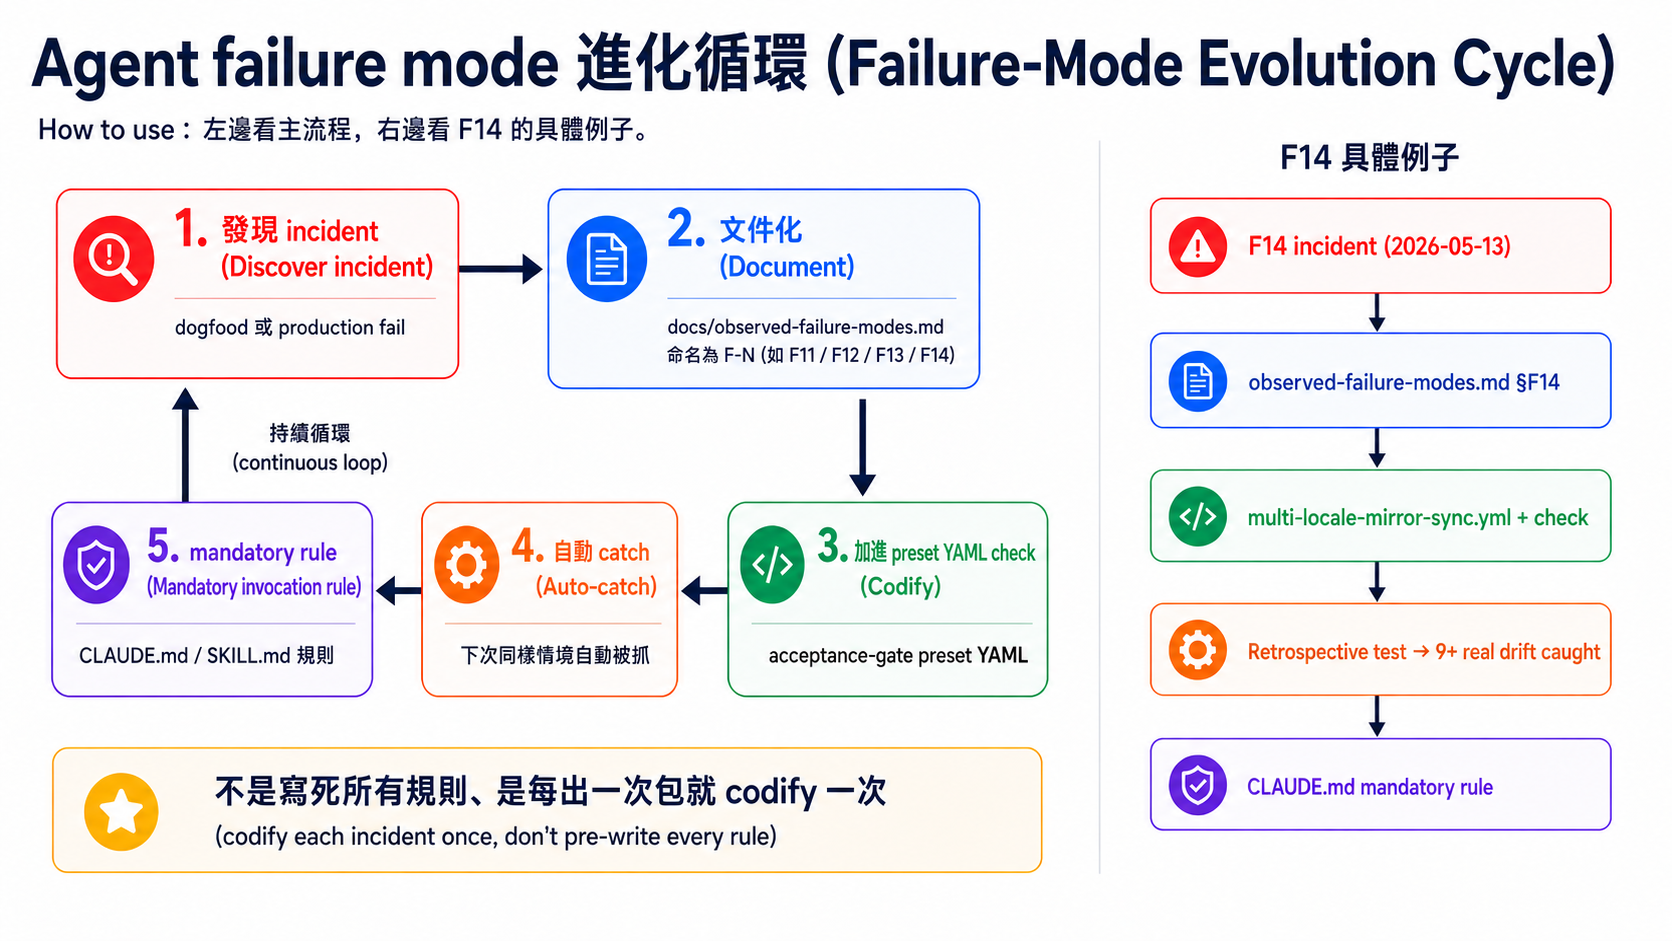
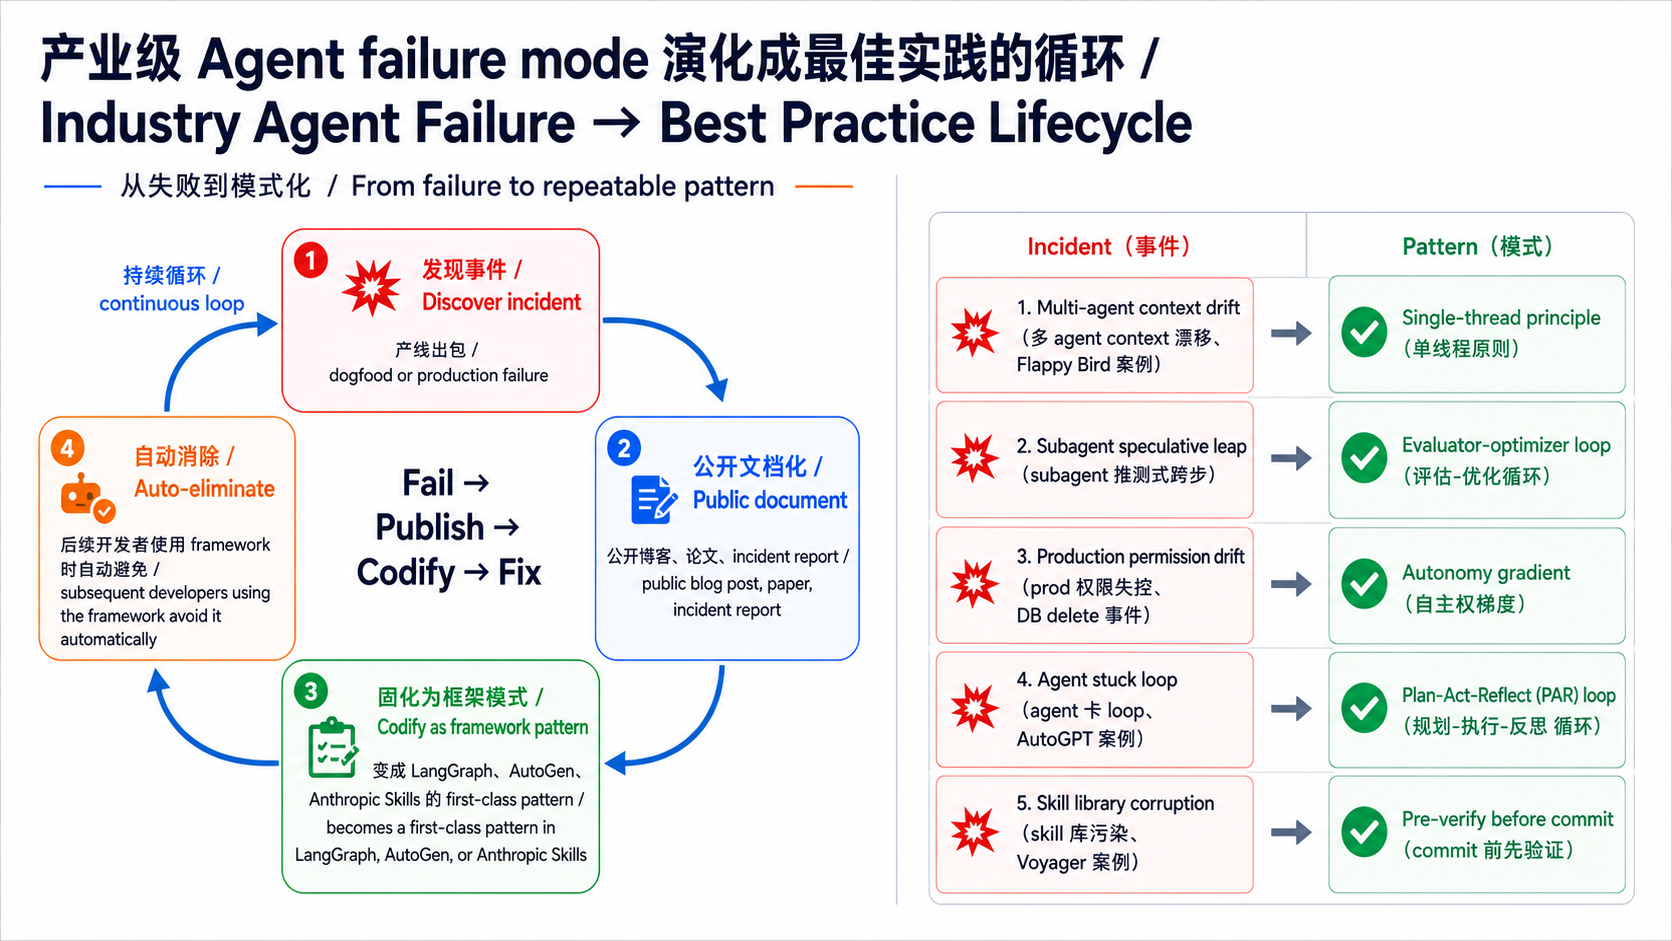
docs(stage-7.5): swap 2 ASCII blocks → PNG embeds + codex polish + §4 rewrite in plain-language style
Three combined changes per user feedback:

(1) Replace remaining 2 ASCII blocks with new PNG diagrams (× 3 locales):
    - §🧭 4-layer work boundary stack ASCII → stack-4layer.{,zh-Hans,en}.png
    - §🔬 5-principle cross-source dependency ASCII → principle-dependency.{,zh-Hans,en}.png
    Also refreshed failure-lifecycle.{,zh-Hans,en}.png with the new industry-incident
    content (5 publicly-documented cases). All 9 PNGs use bilingual labels
    (中英對照) for zh-TW/zh-Hans, monolingual English for en.

(2) Apply codex-delegated grammar/clarity polish (22 of 29 fixes):
    - Removed insider code-switching: "engineer 掉" → "通過工程設計消除",
      "fit 既有契約" → "符合既有契約", "pointing 到" → "指向",
      "broad-scan" → "泛讀"
    - Fixed missing objects: "驗證收到" → "驗證自己真的收到了這些 artifacts"
    - Concretized abstract terms: "primary source" → "一手來源（primary source）",
      "destination/navigation" → "目的地/導航"
    - en grammar: title de-duplication, "production agents means" → "are",
      "Chapter Composition" → "Chapter Structure", "kept publishing" →
      "have continued publishing", "block the human" → "prevent humans from
      bypassing", "pre-write every rule" → "write every rule up front",
      "reads-overflow" → "overflows its context while reading"
    - zh-TW line 3: filled in locale-nav mirror links (was placeholder
      "(zh-Hans / en mirror defer 中)")

(3) Rewrite §4 Architecture & Taste Invariants in user's preferred
    concrete-enforcement-plus-metaphor style:
[…]

diff --git a/stages/07.5-advanced-agentic-concepts.md b/stages/07.5-advanced-agentic-concepts.md
@@ -1,6 +1,6 @@
 # Stage 7.5 — 進階 Agentic Workflow 概念地圖（Advanced Agentic Concepts Map，骨幹 + reading path）
 
-> **繁體中文** | (zh-Hans / en mirror defer 中)
+> **繁體中文** | [简体中文](./07.5-advanced-agentic-concepts.zh-Hans.md) | [English](./07.5-advanced-agentic-concepts.en.md)
 
 ⏱ **時間估算**：1 週（約 5 小時——不寫 code、只讀資源建立概念地圖）
 
@@ -17,57 +17,28 @@ Stage 4 教你挑 **framework**（agent 用哪個工具寫、像 LangGraph / Aut
 - 不是要你全學會
 - 不是要你全用
 - 是讓你**遇到問題時、知道該翻哪份 paper / blog 找答案**
-- 是讓你**看別人寫的 agent 時、看得出它在做什麼**——舉例：別人的 agent 一出錯就「重試 N 次直到放棄」（=只有 retry）、跟它「出錯後先想一輪、修正方法再試」（即所謂 plan-act-reflect loop）、是完全不同等級的設計。能看出差別、你才知道該不該借用對方的做法
+- 是讓你**看別人寫的 agent 時、看得出它在做什麼**——舉例：別人的 agent 一出錯就「重試 N 次直到放棄」（=只有 retry）、跟它「出錯後先反思一次、修正做法、再重試」（即所謂 plan-act-reflect loop）、是完全不同等級的設計。能看出差別、你才知道該不該借用對方的做法
 - 是讓你**知道每個概念該套到 agent 系統哪個部分、解哪一類問題**
 
 ## 🧭 概念地圖主軸：四層工作邊界（work boundary）
 
-本 stage 用**工作邊界**作為整理進階 agentic workflow 的主軸：把 agent 系統拆成 4 個層級（**Types → Config → Repo → Service**、下面馬上展開）、然後問「agent 動的對象屬於哪一層？跨層越界會出什麼問題？」這不是把整章縮成一個模型、而是先給讀者一個定位座標、後面 12 個概念才能放到同一張圖上比較。
+本 stage 用**工作邊界**作為整理進階 agentic workflow 的主軸：先把 agent 系統拆成 4 層（**Types → Config → Repo → Service**、下面馬上展開）。接著問：agent 操作的對象屬於哪一層？跨層越界會出什麼問題？這不是要用單一模型解釋整章、而是先給讀者一個定位座標、後面 12 個概念才能放到同一張圖上比較。
 
 > 💡 **「stack」是什麼意思**：軟體工程習慣把系統拆成上下層、每層各管一件事、上層蓋在下層之上、合稱 stack（堆疊）。例如 web 應用常見「frontend → backend → database」三層 stack。本 stage 把 agent 系統也拆成 4 層（Types / Config / Repo / Service）、看 agent 該動到哪一層。
 
 > ⚠️ **這套 4 層跟 Stage 7 的 prompt → context → harness 三層不一樣、是兩種不同視角**：
-> - **Prompt → Context → Harness**（Stage 7）：**stack 位置**——你正在工程「字串 / 資訊 / 外圍 runtime」哪一個對象？
+> - **Prompt → Context → Harness**（Stage 7）：**stack 位置**——你正在設計或處理的是「prompt 字串 / context 資訊 / 外圍 runtime」哪一類對象？
 > - **Types → Config → Repo → Service**（本 stage）：**自主權範圍**——agent 能動到 stack 多深？跨層越界算違規嗎？
 >
 > 兩者**正交**、解不同問題。讀完本節後可以同時用兩種視角看 agent 系統。
 
-先借用軟體架構的 **Types → Config → Repo → Service** 分層、套到 agent 系統：
+借用軟體架構的 **Types → Config → Repo → Service** 分層、套到 agent 系統：
 
-```
-┌────────────────────────────────────────────────────────────────┐
-│ Service layer ─────────────── 業務邏輯 / 流程編排 │
-│ • Multi-agent supervisor / planner-executor │
-│ • Plan-Act-Reflect loops (Reflexion / Self-Refine) │
-│ • Agent-as-Judge / Constitutional review │
-│ • Self-organizing teams │
-├────────────────────────────────────────────────────────────────┤
-│ ── Work boundary 3 ── │
-├────────────────────────────────────────────────────────────────┤
-│ Repo layer ──────────────────── 狀態 / 記憶 / 知識 │
-│ • Shared memory (.coord/memory.yml) │
-│ • Vector DB / RAG retrieval │
-│ • Episodic memory store (Reflexion) │
-├────────────────────────────────────────────────────────────────┤
-│ ── Work boundary 2 ── │
-├────────────────────────────────────────────────────────────────┤
-│ Config layer ─────────────────── 參數 / 政策 │
-│ • plan.yml / context_policy / budget │
-│ • Acceptance presets / banned phrasing │
-│ • Autonomy gradient (suggest / propose / execute) │
-├────────────────────────────────────────────────────────────────┤
-│ ── Work boundary 1 ── │
-├────────────────────────────────────────────────────────────────┤
-│ Types layer ─────────────────── 契約 / Schema │
-│ • Task brief format / result.json schema │
-│ • Tool definitions / MCP primitives │
-│ • Prompt template signatures │
-└────────────────────────────────────────────────────────────────┘
-```
+![Agentic Stack 四層工作邊界](../resources/diagrams/stack-4layer.png)
 
 → **每一層上下都是一個「工作邊界」**。agent 操作的範圍 = 它的自主權範圍：
 
-- **Agent at Types layer** = 只能 fit 既有契約、不能改 schema（例：codex 接 brief 加 gloss）
+- **Agent at Types layer** = 只能符合既有契約、不能改 schema（例：Codex 接到 brief 後、只能加 inline gloss）
 - **Agent at Config layer** = 可以調 budget / policy 但不能改 memory（例：context-budget 改 max_cost_usd）
 - **Agent at Repo layer** = 可以讀寫 memory / vector store 但不能 redesign workflow
 - **Agent at Service layer** = 可以 recompose 整個 workflow、最高自主權
@@ -76,10 +47,10 @@ Stage 4 教你挑 **framework**（agent 用哪個工具寫、像 LangGraph / Aut
 
 很多進階概念最後都會回到同一個問題：agent 的自主權到底到哪裡為止？把 agent 當成新進實習生來想：你交代一個明確的小任務、他卻自作主張把鄰近的東西也動了——這就叫「跨工作邊界」。產業界已經有 3 個公開記錄的真實案例可以對應：
 
-- **越界沒收手**（Cognition 的 Flappy Bird 案例）：用 **multi-agent**（多個 agent 並行協作）拆解任務、其中一個 **subagent**（主 agent 派出的子 agent、執行某個子任務）負責畫綠色管道、另一個負責畫雲朵背景，結果合起來雙方風格完全對不上——因為每個 subagent 只看到自己那塊、沒有對方在做什麼的 **context**（上下文、agent 拿到的全部資訊）。Cognition 寫得直白：「sub-agent 像一群過度自信的新人、根本不會在該問的時候問問題」。
+- **越界沒收手**（Cognition 的 Flappy Bird 案例）：用 **multi-agent**（多個 agent 並行協作）拆解任務、其中一個 **subagent**（主 agent 派出的子 agent、執行某個子任務）負責畫綠色管道、另一個負責畫雲朵背景，結果合起來雙方風格完全對不上——因為每個 subagent 只看到自己那塊、不知道對方在做什麼、也拿不到對方的 **context**（上下文、agent 拿到的全部資訊）。Cognition 寫得直白：「sub-agent 像一群過度自信的新人、根本不會在該問的時候問問題」。
   → 出處：[Cognition — Don't Build Multi-Agents (2025-06)](https://cognition.ai/blog/dont-build-multi-agents)
 
-- **加料**（Anthropic Multi-Agent Research 的 speculative-leap 現象）：subagent 被指派「研究某個主題」、它在報告裡擅自加上「我推測 X 也可能成立、雖然我沒驗證」這類沒人要的推論。Anthropic 在他們的 multi-agent 論文裡專門講為什麼這種「主動補完」要 engineer 掉、不然 hallucination 會在 supervisor 沒注意時偷渡進結果。
+- **加料**（Anthropic Multi-Agent Research 的 speculative-leap 現象）：subagent 被指派「研究某個主題」、它在報告裡擅自加上「我推測 X 也可能成立、雖然我沒驗證」這類沒人要的推論。Anthropic 在他們的 multi-agent 論文裡專門講為什麼這種「主動補完」要透過工程設計消除、不然 hallucination 會在 supervisor 沒注意時偷渡進結果。
   → 出處：[Anthropic — How we built our multi-agent research system (2025-06)](https://www.anthropic.com/engineering/built-multi-agent-research-system)
 
 - **operator 給太多權限**（Replit Agent 2024 prod database 事故）：根據社群討論、有使用者把 production database access 直接交給 agent、沒設「破壞性操作要先 confirm」的 gate、結果 agent 在「修 bug」過程跑了破壞性 SQL、清掉 production 資料。錯不在 agent 看起來合理地照指令做、錯在 operator 沒設邊界。
@@ -91,7 +62,7 @@ Stage 4 教你挑 **framework**（agent 用哪個工具寫、像 LangGraph / Aut
 - agent 會主動「補完」沒被要求的東西——要靠 structured output schema + evaluator-optimizer loop 把這類 speculative 內容過濾掉
 - 規則「裝好了 ≠ 會被遵守」——operator 自律不夠、必須有 mechanical gate（permission check / cost cap / destructive op confirm）才擋得住
 
-→ **實作對照**：work boundary 寫進 brief（Anthropic 的 brief template、LangGraph 的 state schema、`agent-collab-skills` 的 task-splitter 都是同一概念）+ enforce 在 acceptance gate / evaluator loop + 破壞性操作加 explicit gate（[autonomy gradient](#7-autonomy-gradients--trust-layers) 那節展開）。
+→ **實作對照**：work boundary 寫進 brief（Anthropic 的 brief template、LangGraph 的 state schema、`agent-collab-skills` 的 task-splitter 都是同一概念）、並在 acceptance gate / evaluator loop 中強制檢查；破壞性操作則加 explicit gate（[autonomy gradient](#7-autonomy-gradients--trust-layers) 那節展開）。
 
 ### 🔁 Failure-mode lifecycle（產業級 agent 失敗模式怎麼演化成最佳實踐）
 
@@ -131,13 +102,13 @@ Stage 4 教你挑 **framework**（agent 用哪個工具寫、像 LangGraph / Aut
 | # | 概念 | 動到哪一層 | 一句話定義 | 最佳讀物 |
 |---|---|---|---|---|
 | 1 | **Work Boundary / Scope Discipline** | 跨所有層（discipline）| agent 只動 brief 指定的對象、不越界 | [Hamel — Evals + Skills](https://hamel.dev/blog/posts/evals-skills/) + [Cognition — Don't Build Multi-Agents](https://cognition.ai/blog/dont-build-multi-agents) |
-| 2 | **Contract-driven Hand-offs** | Types + Service | 上游 agent 承諾的 artifacts、下游 agent 必須驗證收到 | [Anthropic — Building Effective Agents](https://www.anthropic.com/engineering/building-effective-agents) Routing pattern |
+| 2 | **Contract-driven Hand-offs** | Types + Service | 上游 agent 承諾的 artifacts、下游 agent 必須驗證自己真的收到了這些 artifacts | [Anthropic — Building Effective Agents](https://www.anthropic.com/engineering/building-effective-agents) Routing pattern |
 | 3 | **Speculative / Parallel Exploration** | Service（編排）| 跑 N 條 alternative 路徑、取最佳那條（不只獨立 parallel）| [LangGraph Plan-Execute Tutorial](https://blog.langchain.com/planning-agents/) |
 | 4 | **Agent-as-Judge / Constitutional AI** | Service（agent 評 agent）| 用一個 agent 評另一個 agent 的輸出、依 principles 反覆修正 | [Constitutional AI (Bai 2022)](https://arxiv.org/abs/2212.08073) |
 | 5 | **Plan-Act-Reflect Loop** | Service（單 agent 自我循環）| write plan → execute → critique → revise → re-execute、直到 PASS 或 EXHAUSTED | [Reflexion (Shinn 2023)](https://arxiv.org/abs/2303.11366) + [Self-Discover (Zhou ICML 2024)](https://arxiv.org/abs/2402.03620) |
 | 6 | **Hierarchical Task Decomposition** | Service（多層 supervisor）| supervisor → worker → sub-worker、≥ 2 層 recursion | [Microsoft AutoGen GroupChat docs](https://microsoft.github.io/autogen/) |
 | 7 | **Autonomy Gradients / Trust Layers** | Config（autonomy policy）| agent 不同任務有不同自主權（suggest / propose / execute）| [Claude Code permission system](https://docs.claude.com/en/docs/agents-and-tools/claude-code/overview) |
-| 8 | **Cost-aware Budget Gates** | Config（cost policy）| 超 \$ 預算自動停 / 升級審核（不只 token 上限）| [OpenAI Harness Engineering (2026-02)](https://openai.com/index/harness-engineering) |
+| 8 | **Cost-aware Budget Gates** | Config（cost policy）| 超過美元預算就自動停止或升級審核（不只是 token 上限）| [OpenAI Harness Engineering (2026-02)](https://openai.com/index/harness-engineering) |
 | 9 | **Failure Injection / Chaos Eval** | Service（測 agent 容錯）| 故意給 broken input / stale data / API timeout、看 agent 怎麼處理 | [Hamel Husain — Evals blog series](https://hamel.dev/blog/posts/evals/) |
 | 10 | **Self-organizing Teams** | Service（agent 動態協商 role）| agents 不是預先指派 role、而是依任務動態分工 | [CAMEL (Li 2023)](https://arxiv.org/abs/2303.17760) + AutoGen |
 | 11 | **Spec-driven Development** | Types（spec = code）| agent 任務由 formal spec（YAML / JSON Schema）定義、不是自由 prompt | [DSPy](https://github.com/stanfordnlp/dspy) signatures tutorial |
@@ -145,7 +116,7 @@ Stage 4 教你挑 **framework**（agent 用哪個工具寫、像 LangGraph / Aut
 
 ## 為什麼選這 12 個
 
-- 都有可驗證 primary source（Anthropic / OpenAI / Cognition / Microsoft / academic paper），不是空談
+- 都有可驗證的一手來源（primary source、Anthropic / OpenAI / Cognition / Microsoft / academic paper），不是空談
 - 都對應到至少一個公開實作（LangGraph / AutoGen / Anthropic Skills / DSPy 等）、可以直接拿來抄
 - 都在 Stage 4 / 6 / 7 已覆蓋的概念之外（沒重複）
 - 避免「無限延伸」——其他進階概念（Voyager skill learning / MemoryLLM / world models）很重要但**先學這 12 個再說**
@@ -170,43 +141,16 @@ Stage 4 教你挑 **framework**（agent 用哪個工具寫、像 LangGraph / Aut
 | **③ Quality / 驗證** | 寫得對 / 不能 hallucinate | **Taste Invariants** [OAI] / **Evaluator-Optimizer loop** [Anth] / **Human + LLM-as-Judge** [Anth] / **"Evals are everything"** [Hamel] |
 | **④ Process 紀律** | scale + iterate 不爆 | **Simplicity** [Anth] / **Throughput Changes Merge Philosophy** [OAI] / **Don't Build Multi-Agents (when unnecessary)** [Cognition] |
 
-→ **OpenAI 那 5 個原則是「有最清楚命名 + 完整 case study」的整理版本**——但類別 ① 的 SoR / Memory Persistence、類別 ② 的 ACI、類別 ③ 的 Eval-Optimizer、類別 ④ 的 Simplicity 都是 Anthropic 等其他來源先講的。下面用 OpenAI 命名版本展開（細節最完整）+ 在每節標註對應的 Anthropic 等 source。
+→ **OpenAI 那 5 個原則是「有最清楚命名 + 完整 case study」的整理版本**——但類別 ① 的 SoR / Memory Persistence、類別 ② 的 ACI、類別 ③ 的 Eval-Optimizer、類別 ④ 的 Simplicity 都是 Anthropic 等其他來源先講的。下面先沿用 OpenAI 的命名版本展開、因為細節最完整；每節再標註對應的 Anthropic 等來源。
 
 ### 原則之間的主要關係（cross-category dependencies）
 
 不是 5 個 / 12 個獨立原則——它們之間有 **enabling 關係**：
 
-```
-                    ① Context 管理
-              ┌──────────────┴──────────────┐
-              │                             │
-      System of Record ───提供 stable────┐
-        [OAI]              destination    │
-                                          ▼
-      Memory Persistence ──extends to───→ Progressive Disclosure
-        [Anth]            cross-session    [OAI + Anth]
-              │                             │
-              └────────────┬────────────────┘
-                           │ stable + small
-                           │ entry point
-                           ▼
-    ② Interface       Legibility ──讓 agent 能 self-report──→ Transparency
-                      [OAI]                                    [Anth]
-                           │
-                           │ readable codebase + visible plan
-                           ▼
-    ③ Quality         Taste Invariants ──automate via──→ Eval-Optimizer
-                      [OAI]                              loop [Anth + Hamel]
-                           │
-                           │ catches drift before commit
-                           ▼
-    ④ Process         Throughput Merge Phil. ──relies on──→ Simplicity
-                      [OAI]                                 [Anth + Cognition]
-                                                            「不要先堆 multi-agent」
-```
+![5 個 Harness Engineering 原則之間的 cross-source dependency](../resources/diagrams/principle-dependency.png)
 
 → **4 個關係 insight**：
-- **SoR + Memory Persistence + Progressive Disclosure 是配對的**——SoR 提供 destination、Memory 跨 session 持久化、Progressive Disclosure 是 navigation 機制。三者單獨用不夠。
+- **SoR + Memory Persistence + Progressive Disclosure 是配對的**——SoR 提供目的地、Memory 負責跨 session 保存資訊、Progressive Disclosure 則是導航機制。三者單獨用不夠。
 - **Legibility ↔ Transparency 雙向**——agent 能讀 codebase 才能 self-report；agent 會 self-report 你才能驗證 legibility 有效。
 - **Quality 類別是 ④ 自動化的前置**——沒寫死 invariants + eval loop、人類就無法把 review 交給 automation。
 - **Simplicity 是隱性 root**——一開始堆 multi-agent，所有其他原則的複雜度都暴增。Cognition 的「Don't Build Multi-Agents」跟 Anthropic 的「Simplicity」是同一回事。
@@ -258,7 +202,7 @@ Stage 4 教你挑 **framework**（agent 用哪個工具寫、像 LangGraph / Aut
 
 唯一權威來源、agent 從這裡讀寫、不要把 context 塞 system prompt。
 
-- **怎麼做**：100 行 entry map（AGENTS.md / CLAUDE.md）pointing 到 `docs/` 深處、不在 prompt 重複內容
+- **怎麼做**：100 行左右的 entry map（AGENTS.md / CLAUDE.md）指向 `docs/` 深處、不在 prompt 中重複內容
 - **跨 work boundary**：Repo
 - **對應 tool**：`.coord/memory.yml`（[agent-shared-memory](https://github.com/WenyuChiou/agent-collab-skills) skill）+ AGENTS.md / CLAUDE.md pattern
 
@@ -276,10 +220,27 @@ Stage 4 教你挑 **framework**（agent 用哪個工具寫、像 LangGraph / Aut
 
 > "We enforce these rules with custom linters and structural tests, plus a small set of **'taste invariants.'** ... **By enforcing invariants, not micromanaging implementations**, we let agents ship fast." — OpenAI
 
-定義邊界、不細管實作。Lint 強制 structured logging、命名、檔案大小、reliability。
+AI 寫 code 時傾向「怎麼快怎麼來」、常導致模組過度耦合、命名混亂、檔案爆炸。OpenAI 團隊用**強制性結構規則**約束 AI、讓 agent 在你劃好的邊界內快跑、而不是每行都要人盯：
 
-- **怎麼做**：custom linter / structural test + 「taste invariant」list（檔案 < 500 行、schema 命名 pattern、structured logging）
-- **跨 work boundary**：Config + cross-cutting enforce 跨所有層
+**(a) Enforcing Architecture — 用「物理邊界」框住 AI**
+
+像在蓋房子前先搭好鋼筋支架、AI 只能在格子裡填肉：
+
+- **單向依賴（One-way Dependency）**：定義嚴格的層級、底層的 Types 絕對不能引用高層的 Service。AI 想偷渡 import 會被擋。
+- **剛性目錄結構**：規定特定的 code 必須待在特定目錄（如 `models/` / `controllers/` / `schemas/`）、AI 不能自己亂建 folder。
+- **自動化 Linter**：如果 AI 寫出違規 code（例如在數據層直接呼叫 API）、CI 自動拒絕 merge、逼 AI 重寫。
+
+**(b) Enforcing Taste — 把「工程美學」變成規則**
+
+「品味」聽起來主觀、但工程上指的是**可維護性、一致性、簡潔度**。AI 沒有美感、它只會根據機率產出結果——所以要把美感寫成 lint 規則：
+
+- **黃金準則 list**：寫下「**偏好 composition 而非 inheritance**」、「**函數必須短小**」、「**檔案 < 500 行**」這類原則、變成 invariant。
+- **代碼風格統一**：harness 強制 AI 產出的命名、邏輯組織看起來像「同一個高階工程師寫的」、而不是混雜風格的大雜燴。
+- **拒絕「AI slop」**：AI 常生成冗餘、無用但「看起來正確」的 code。設定「品味基準」要求 AI 不斷重構、簡化、直到達到人類專家認可的優雅程度。
+
+→ **核心精神**：**定義邊界、不細管實作**——讓 agent 在你劃好的格子裡自由衝、而不是每行都要人盯。
+
+- **跨 work boundary**：Config + cross-cutting（lint 規則寫在 Config、強制檢查跨所有層）
 - **對應 tool**：`agent-acceptance-gate` YAML preset（`multi-locale-mirror-sync.yml` / `catalog-entry-add.yml` / `fact-check-frontier-models.yml`）——預先 codify「跑出來該長什麼樣」
 
 ### 5. Throughput Changes Merge Philosophy — agent 高吞吐 → 人類 QA 變瓶頸

diff --git a/stages/07.5-advanced-agentic-concepts.en.md b/stages/07.5-advanced-agentic-concepts.en.md
@@ -1,18 +1,18 @@
-# Stage 7.5 — Advanced Agentic Workflow Concepts Map (Advanced Agentic Concepts Map, skeleton + reading path)
+# Stage 7.5 — Advanced Agentic Workflow Concepts Map (Skeleton + Reading Path)
 
 > [Traditional Chinese](./07.5-advanced-agentic-concepts.md) | [简体中文](./07.5-advanced-agentic-concepts.zh-Hans.md) | **English**
 
 ⏱ **Estimated Time**: 1 week (about 5 hours — no coding, just reading resources to build the concept map)
 
-> 💡 This is an **advanced-concept map + reading path**, not a full tutorial. After Stages 4 / 6 / 7, you can already build production **agents** (AI systems that plan + execute tasks autonomously — LLM-based programs that drive their own actions; "production agents" means ones real users rely on without breakdowns every other day); this stage helps you locate **which advanced concepts are still being debated in the industry**, **what problem each concept solves**, and **which papers / blogs to read first**, so you do not step into problems that others have already hit in real work.
+> 💡 This is an **advanced-concept map + reading path**, not a full tutorial. After Stages 4 / 6 / 7, you can already build production **agents** (AI systems that plan + execute tasks autonomously — LLM-based programs that drive their own actions; "production agents" are agents that real users can rely on without frequent breakdowns); this stage helps you locate **which advanced concepts are still being debated in the industry**, **what problem each concept solves**, and **which papers / blogs to read first**, so you do not step into problems that others have already hit in real work.
 
-> 📋 **Chapter Composition**: Why this stage exists → **Concept-map spine: the Types → Config → Repo → Service four-layer work boundary** (diagram) → 12 advanced concept skeletons → Why these 12 were chosen → **Cross-concept Harness Engineering Principles (multi-source, 4 categories + dependency map)** → Advanced agentic application flow (5 steps) → Complete reading path → Self-check
+> 📋 **Chapter Structure**: Why this stage exists → **Concept-map spine: the Types → Config → Repo → Service four-layer work boundary** (diagram) → 12 advanced concept skeletons → Why these 12 were chosen → **Cross-concept Harness Engineering Principles (multi-source, 4 categories + dependency map)** → Advanced agentic application flow (5 steps) → Complete reading path → Self-check
 
 ## 🎯 Why this stage exists
 
 Stage 4 teaches you how to choose **frameworks** (which tool to build agents with — e.g., LangGraph / AutoGen), Stage 6 teaches **context engineering** (how to dynamically manage what you feed the agent: memory, retrieval, prompt assembly), and Stage 7 teaches **harness engineering** (the reliable runtime environment surrounding an agent: observability / retry / cost gates / eval / sandbox and 3 more — the 8 components are introduced one by one in Stage 7). Together, those three stages are enough for **70% of production-grade agents** (agents that real users rely on without breakdowns every other day).
 
-But frontier AI labs (Anthropic / OpenAI / Cognition / Microsoft) + academia (Stanford / CMU / Princeton) kept publishing 12+ advanced design concepts across 2024-2026. **Some you won't use yet, but you need to know they exist** — so that when a problem shows up later, you know there is a ready-made pattern to borrow. This stage is not another theory chapter; it is a **map**:
+But frontier AI labs (Anthropic / OpenAI / Cognition / Microsoft) + academia (Stanford / CMU / Princeton) have continued publishing 12+ advanced design concepts from 2024 to 2026. **Some you won't use yet, but you need to know they exist** — so that when a problem shows up later, you know there is a ready-made pattern to borrow. This stage is not another theory chapter; it is a **map**:
 
 - It is not asking you to master all of them
 - It is not asking you to use all of them
@@ -34,36 +34,7 @@ This stage uses the **work boundary** as the spine for organizing advanced agent
 
 Borrow software architecture layering — **Types → Config → Repo → Service** — and apply it to agent systems:
 
-```text
-┌────────────────────────────────────────────────────────────────┐
-│ Service layer ───────────── business logic / orchestration │
-│ • Multi-agent supervisor / planner-executor │
-│ • Plan-Act-Reflect loops (Reflexion / Self-Refine) │
-│ • Agent-as-Judge / Constitutional review │
-│ • Self-organizing teams │
-├────────────────────────────────────────────────────────────────┤
-│ ── Work boundary 3 ── │
-├────────────────────────────────────────────────────────────────┤
-│ Repo layer ───────────────── state / memory / knowledge │
-│ • Shared memory (.coord/memory.yml) │
-│ • Vector DB / RAG retrieval │
-│ • Episodic memory store (Reflexion) │
-├────────────────────────────────────────────────────────────────┤
-│ ── Work boundary 2 ── │
-├────────────────────────────────────────────────────────────────┤
-│ Config layer ───────────── parameters / policy │
-│ • plan.yml / context_policy / budget │
-│ • Acceptance presets / banned phrasing │
-│ • Autonomy gradient (suggest / propose / execute) │
-├────────────────────────────────────────────────────────────────┤
-│ ── Work boundary 1 ── │
-├────────────────────────────────────────────────────────────────┤
-│ Types layer ────────────── contract / schema │
-│ • Task brief format / result.json schema │
-│ • Tool definitions / MCP primitives │
-│ • Prompt template signatures │
-└────────────────────────────────────────────────────────────────┘
-```
+![Agentic Stack 4-Layer Work Boundary](../resources/diagrams/stack-4layer.en.png)
 
 → Every layer boundary is a **work boundary**. The scope the agent operates on = the scope of its autonomy:
 
@@ -89,7 +60,7 @@ Many advanced concepts eventually trace back to the same question: how far does 
 
 - Agents do not "naturally stop at the point you assigned" — your brief must explicitly say "**only touch X, do NOT touch Y**", and sub-agents must receive the parent's full context.
 - Agents will proactively "fill in" things not requested — use structured output schemas + evaluator-optimizer loops to filter speculative content.
-- A rule "being installed ≠ being followed" — operator self-discipline is not enough. You need mechanical gates (permission check, cost cap, destructive-op confirmation) to block the human "I'll just skip it this once".
+- A rule "being installed ≠ being followed" — operator self-discipline is not enough. You need mechanical gates (permission check, cost cap, destructive-op confirmation) to prevent humans from bypassing the rule with "just this once".
 
 → **How this maps to tools**: write the work boundary into the brief (Anthropic's brief template / LangGraph state schemas / `agent-collab-skills`' task-splitter — all the same idea), enforce it at an acceptance gate / evaluator loop, and put an explicit gate in front of destructive operations (covered in [§7 Autonomy Gradients](#7-autonomy-gradients--trust-layers)).
 
@@ -107,7 +78,7 @@ Every industry-grade agent failure mode goes through the same loop: **discover i
 | 4 | Agent looping without self-criticism (AutoGPT stuck loops) | "Reflexion-less iteration" | **Plan-Act-Reflect loop**: add self-critique + revise step | Reflexion paper (Shinn 2023) |
 | 5 | Skill library corruption (broken skill enters library) | "Untested skill commit" | **Pre-verify before commit**: skill must pass tests before joining the library | Voyager paper (Wang 2024) |
 
-→ **This "fail → publish → codify → fix" loop is the evolution mechanism of the entire agentic field** — not "pre-write every rule," but "**every production incident gets published + codified into a pattern**". Anthropic Skills `references/`, OpenAI Taste Invariants, LangChain's evaluator pattern, Anthropic's evaluator-optimizer — they are the same logic in different implementations.
+→ **This "fail → publish → codify → fix" loop is the evolution mechanism of the entire agentic field** — not "write every rule up front," but "**every production incident gets published + codified into a pattern**". Anthropic Skills `references/`, OpenAI Taste Invariants, LangChain's evaluator pattern, Anthropic's evaluator-optimizer — they are the same logic in different implementations.
 
 → **How to use this table**: when your own agent fails, find the row in the table that resembles your failure, then read the deep-dive for the matching pattern (Single-thread / Evaluator-optimizer / Autonomy gradient / PAR / Pre-verify). The 12 skeletons later in this stage cover all 5 patterns.
 
@@ -176,34 +147,7 @@ The 12 concepts in table form (# / concept / which layer / one-line definition /
 
 These are not 5 isolated principles, and they are not 12 unrelated concepts. There are clear **enabling relationships** between them:
 
-```
-                    ① Context management
-              ┌──────────────┴──────────────┐
-              │                             │
-      System of Record ───provides a─────┐
-        [OAI]              stable target  │
-                                          ▼
-      Memory Persistence ─extends across→ Progressive Disclosure
-        [Anth]            sessions         [OAI + Anth]
-              │                             │
-              └────────────┬────────────────┘
-                           │ stable + small
-                           │ entry point
-                           ▼
-    ② Interface       Legibility ─lets the agent self-report→ Transparency
-                      [OAI]                                     [Anth]
-                           │
-                           │ readable codebase + visible plan
-                           ▼
-    ③ Quality         Taste Invariants ─automated via→ Eval-Optimizer
-                      [OAI]                         loop [Anth + Hamel]
-                           │
-                           │ catches drift before commit
-                           ▼
-    ④ Process         Throughput Merge Phil. ─relies on→ Simplicity
-                      [OAI]                            [Anth + Cognition]
-                                                       "don't start with multi-agent"
-```
+![Cross-source dependency graph for 5 Harness Engineering principles](../resources/diagrams/principle-dependency.en.png)
 
 → **4 relationship insights**
 - **SoR + Memory Persistence + Progressive Disclosure are a bundle**: SoR gives you the destination, Memory Persistence carries facts across sessions, and Progressive Disclosure is the navigation mechanism. None of the three is complete on its own.
@@ -248,7 +192,7 @@ The 5 sections below expand each principle (with original OpenAI quotes); here i
 
 The direction is opposite from "make the agent's output readable to humans". Treat the agent like a new engineering hire and optimize navigability for *it*.
 
-- **How**: consistent schema naming, file-size limits (so the agent never reads-overflow), `docs/` hierarchical structure the agent can traverse
+- **How**: consistent schema naming, file-size limits (so the agent never overflows its context while reading), `docs/` hierarchical structure the agent can traverse
 - **Work boundary spanned**: Repo + Types
 - **Maps to our tool**: Claude Code Skill's `references/` mechanism + AGENTS.md / CLAUDE.md pattern
 
@@ -276,10 +220,27 @@ Works hand-in-hand with #2: SoR provides the destinations, Progressive Disclosur
 
 > "We enforce these rules with custom linters and structural tests, plus a small set of **'taste invariants.'** ... **By enforcing invariants, not micromanaging implementations**, we let agents ship fast." — OpenAI
 
-Define the boundaries, not the implementation details. Lint for structured logging, naming, file size, reliability requirements.
+When AI writes code it tends to take the fastest path, which often produces tangled modules, inconsistent names, and bloated files. OpenAI's team constrains the AI with **mandatory structural rules** — the agent can sprint inside the box you draw, instead of needing line-by-line supervision:
 
-- **How**: custom linters / structural tests + a "taste invariant" list (file < 500 lines, schema naming pattern, structured logging)
-- **Work boundary spanned**: Config + cross-cutting enforcement across all layers
+**(a) Enforcing Architecture — physical boundaries that contain the AI**
+
+Like erecting steel scaffolding before construction: the AI can only fill in the cells you laid out:
+
+- **One-way dependency**: define strict layer hierarchy — the bottom Types layer can never import the top Service layer. AI attempts to smuggle imports are blocked.
+- **Rigid directory structure**: certain code must live in certain directories (`models/`, `controllers/`, `schemas/`). The AI cannot invent new folders.
+- **Automated linters**: if the AI writes code that breaks a rule (e.g. calling an API directly from the data layer), CI rejects the merge and forces the AI to rewrite.
+
+**(b) Enforcing Taste — turning "engineering aesthetics" into rules**
+
+"Taste" sounds subjective, but in engineering it means **maintainability, consistency, simplicity**. The AI has no aesthetics — it just produces statistically likely output — so aesthetics get encoded into lint rules:
+
+- **Golden-rule list**: write down principles like "**prefer composition over inheritance**", "**functions must stay short**", "**files < 500 lines**", and turn them into invariants.
+- **Style uniformity**: the harness forces AI-generated naming and structure to read like "one senior engineer wrote everything", not a mash-up of inconsistent styles.
+- **Reject AI slop**: the AI often generates redundant or useless code that "looks correct". Setting "taste benchmarks" forces the AI to keep refactoring and simplifying until the result reaches what a human expert would call elegant.
+
+→ **Core philosophy**: **define the boundaries, don't micromanage the implementation** — let agents sprint inside the cells you drew, instead of needing a human on every line.
+
+- **Work boundary spanned**: Config + cross-cutting (lint rules live in Config, enforcement applies across all layers)
 - **Maps to our tool**: `agent-acceptance-gate` YAML presets (`multi-locale-mirror-sync.yml` / `catalog-entry-add.yml` / `fact-check-frontier-models.yml`) — codify "what the output should look like" up front
 
 ### 5. Throughput Changes Merge Philosophy — agent throughput shifts the bottleneck to human QA
@@ -338,7 +299,7 @@ Most of OpenAI's 5 principles have a direct Anthropic counterpart, just under di
 2. [Anthropic Engineering — Equipping Agents for the Real World with Agent Skills](https://www.anthropic.com/engineering/equipping-agents-for-the-real-world-with-agent-skills) ⭐⭐⭐ — covers principle #3; Anthropic literally uses "progressive disclosure" verbatim, with full 3-tier loading explanation.
 3. [Claude Code — How Claude remembers your project](https://code.claude.com/docs/en/memory) ⭐⭐ — covers principle #2; CLAUDE.md 4-tier hierarchy + `@-import` + AGENTS.md interop.
 
-**Then read this 1 (~20 min)**:
+**Then read this one (~20 min)**:
 
 4. [Anthropic — How we built our multi-agent research system](https://www.anthropic.com/engineering/built-multi-agent-research-system) — supplements #2 + #5 + Memory persistence with a production case study.
 